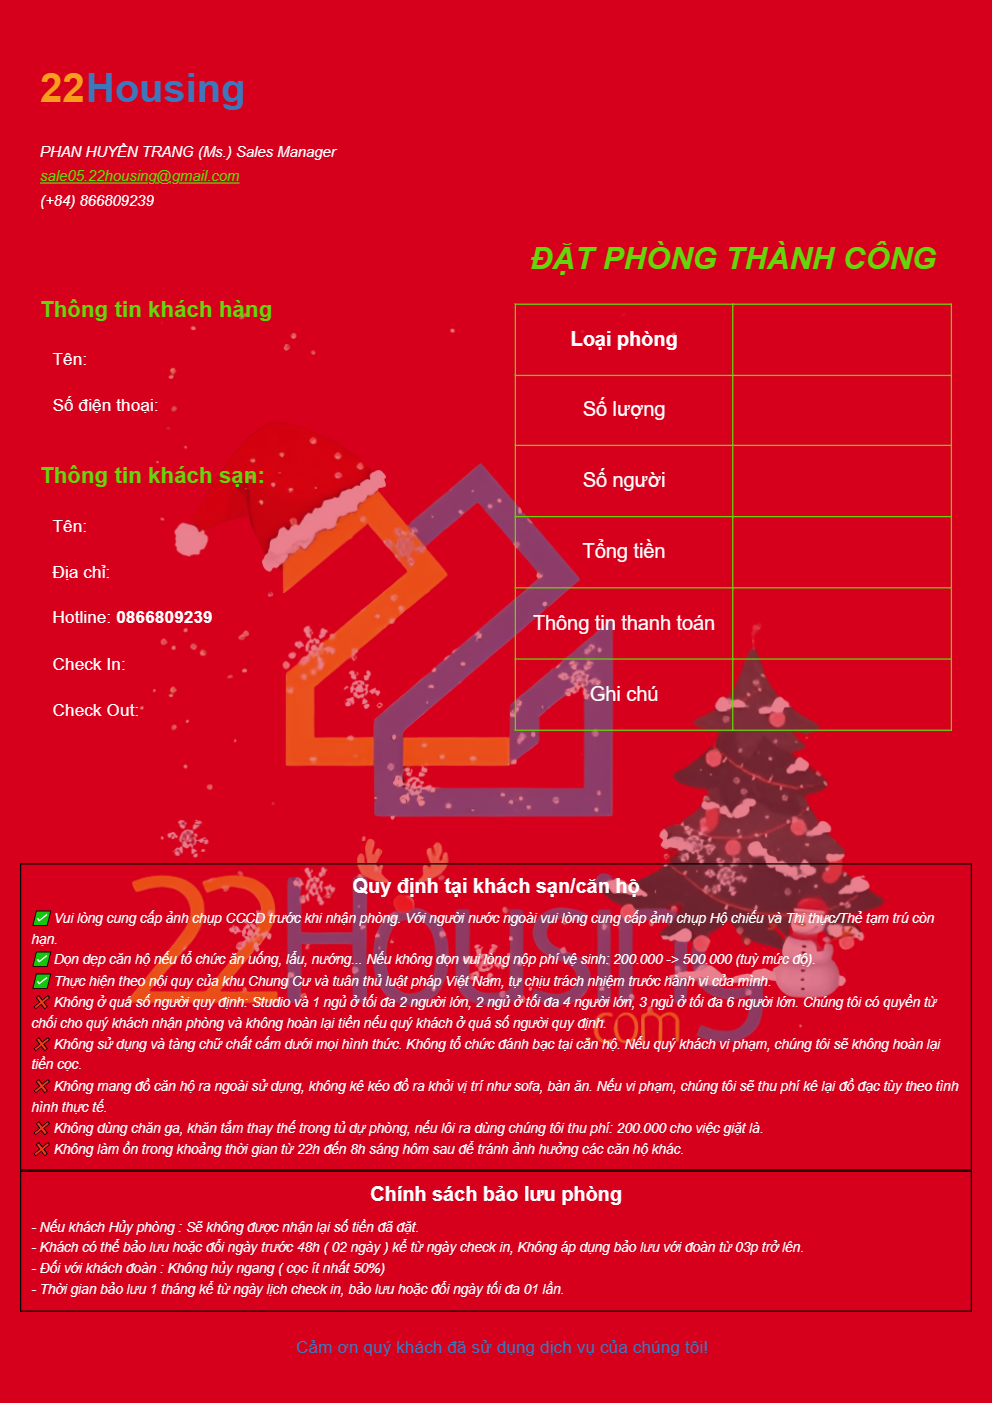
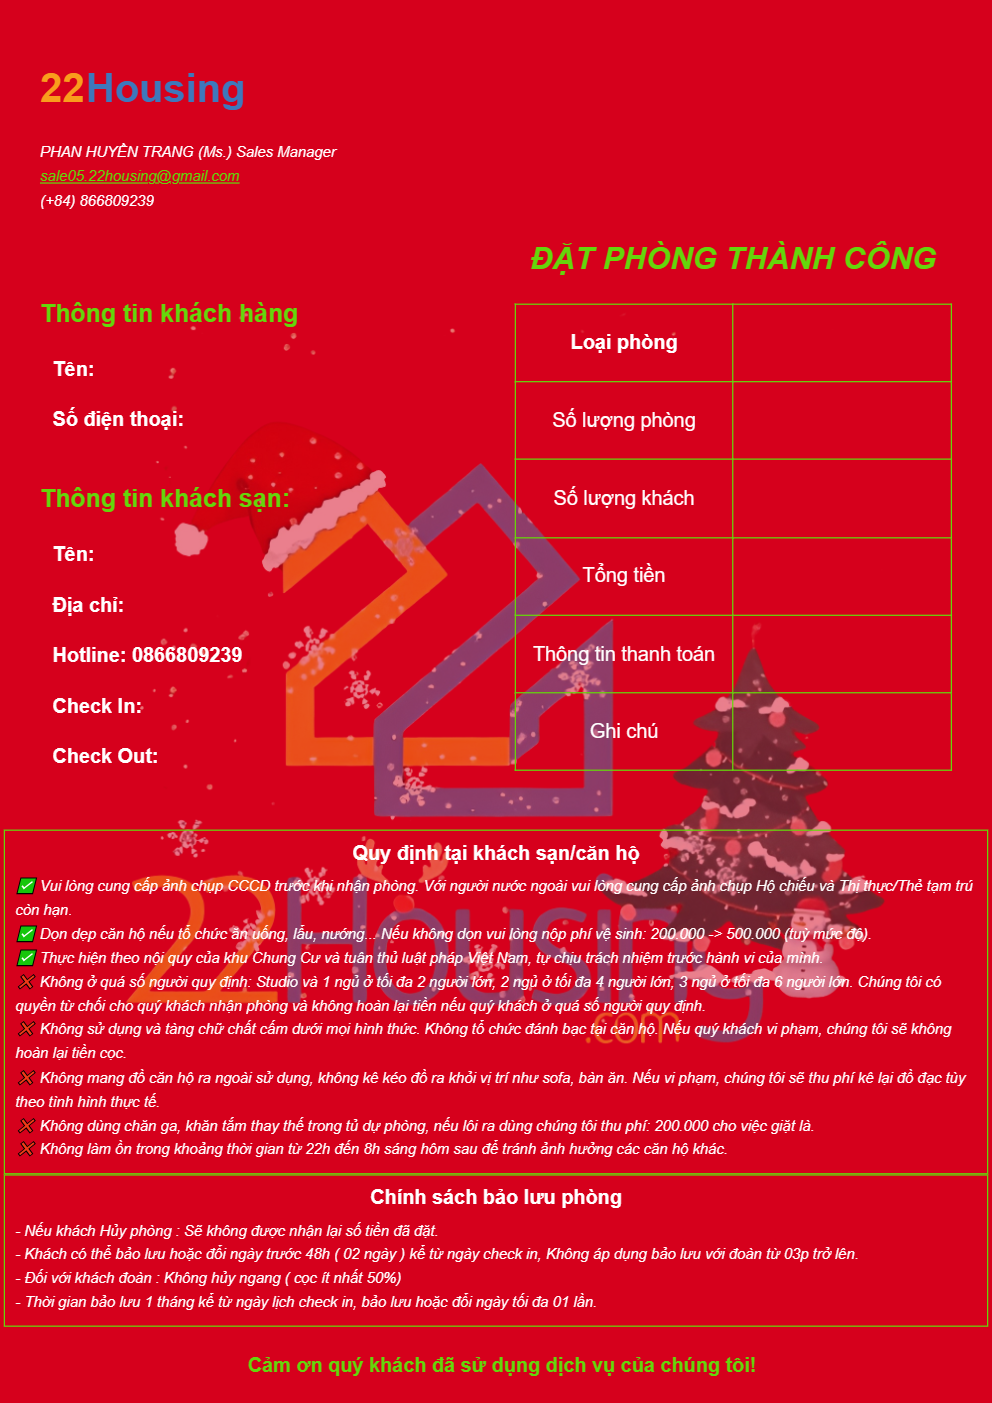
update

diff --git a/src/pages/VoucherChrismas.js b/src/pages/VoucherChrismas.js
@@ -13,7 +13,7 @@ const VoucherChrismas = () => {
 
     const { t } = useTranslation();
     const navigate = useNavigate();
-    const { bookingInfo , setBookingInfo} = GlobalState();
+    const { bookingInfo, setBookingInfo } = GlobalState();
 
     useEffect(() => {
         console.log("intu", bookingInfo);
@@ -97,7 +97,7 @@ const VoucherChrismas = () => {
                 position: 'absolute',
                 top: '10px',
                 right: '50px',
-                
+
             }}>
                 <Button type="primary" onClick={handleBack}>Back</Button>
                 <br />
@@ -130,7 +130,7 @@ const VoucherChrismas = () => {
                 />
             </div>
             <div id="divToPrint" style={{
-                backgroundColor: '#D6001C',
+                backgroundColor: '#f5f5f5',
                 width: '210mm',
                 minHeight: '297mm',
                 marginLeft: 'auto',
@@ -141,9 +141,7 @@ const VoucherChrismas = () => {
                 backgroundSize: 'contain',
                 position: 'absolute',
                 //background opacity
-                //chuyển tất cả nội dung bên trong thành chữ trắng
-                color: '#fff',
-                
+
             }}>
                 <div className='content'>
                     <div className='title' >
@@ -171,7 +169,7 @@ const VoucherChrismas = () => {
                         <div>
                             <div className='client-container'>
                                 <div className='client-info'>
-                                    <h3 className='info-title' style={{color: "#65D60B"}}>{t('content.clientInfo')}</h3>
+                                    <h3 className='info-title' style={{ color: "#65D60B" }}>{t('content.clientInfo')}</h3>
                                     <h4>{t('content.clientName')} <strong> {value?.name} </strong> </h4>
                                     {value?.email ? (<h4>{t('content.clientEmail')} <strong> {value?.email} </strong> </h4>) : null}
                                     <h4>{t('content.clientPhone')}<strong> {value?.phone} </strong></h4>
@@ -180,7 +178,7 @@ const VoucherChrismas = () => {
                             </div>
 
                             < div className='hotel-info'>
-                                <h3 className='info-title'style={{color: "#65D60B"}}>{t('content.hotelTitle')}</h3>
+                                <h3 className='info-title' style={{ color: "#65D60B" }}>{t('content.hotelTitle')}</h3>
                                 <h4>{t('content.hotelName')} <strong> {value?.hotelName} </strong> </h4>
                                 <h4>{t('content.hotelAddress')}  <strong> {value?.hotelAddress} </strong> </h4>
                                 <h4 >Hotline: <strong>0866809239</strong></h4>
@@ -190,7 +188,7 @@ const VoucherChrismas = () => {
                         </div>
                         <div className='client-notification'>
                             <h2 style={{
-                                color: '#65D60B',
+                                color: '#D6001C',
                                 fontSize: '25px',
                                 fontWeight: 'bold',
                                 textAlign: 'center',
@@ -260,7 +258,7 @@ const VoucherChrismas = () => {
                                             border: '1px solid #65D60B',
                                             width: '50%',
                                             padding: '10px',
-                                            
+
                                         }}>
                                             {t('table.number')}
                                         </td>
@@ -278,7 +276,7 @@ const VoucherChrismas = () => {
                                             border: '1px solid #65D60B',
                                             width: '50%',
                                             padding: '10px',
-                                            
+
                                         }}>
                                             {t('table.numberOfPeople')}
                                         </td>
@@ -355,7 +353,7 @@ const VoucherChrismas = () => {
                 </div>
                 <div className='footer'>
                     <div className='regulations'>
-                        <span style={{ textAlign: 'center', fontWeight: '600', marginBottom: '.5em' }}>{t('regulations.title')}</span>
+                        <span style={{ textAlign: 'center', fontWeight: '600', marginBottom: '.5em' , color: "#D6001C"}}>{t('regulations.title')}</span>
                         <span className={"footer-text"}>{t('regulations.content1')}</span>
                         <span className={"footer-text"}>{t('regulations.content2')}</span>
                         <span className={"footer-text"}>{t('regulations.content3')}</span>
@@ -366,7 +364,7 @@ const VoucherChrismas = () => {
                         <span className={"footer-text"}>{t('regulations.content8')}</span>
                     </div>
                     <div className='policy'>
-                        <span style={{ textAlign: 'center', fontWeight: '600', marginBottom: '.5em' }}>{t('policy.title')}</span>
+                        <span style={{ textAlign: 'center', fontWeight: '600', marginBottom: '.5em', color: "#D6001C"}}>{t('policy.title')}</span>
                         <span className={"footer-text"}>{t('policy.content1')}</span>
                         <span className={"footer-text"}>{t('policy.content2')}</span>
                         <span className={"footer-text"}>{t('policy.content3')}</span>
